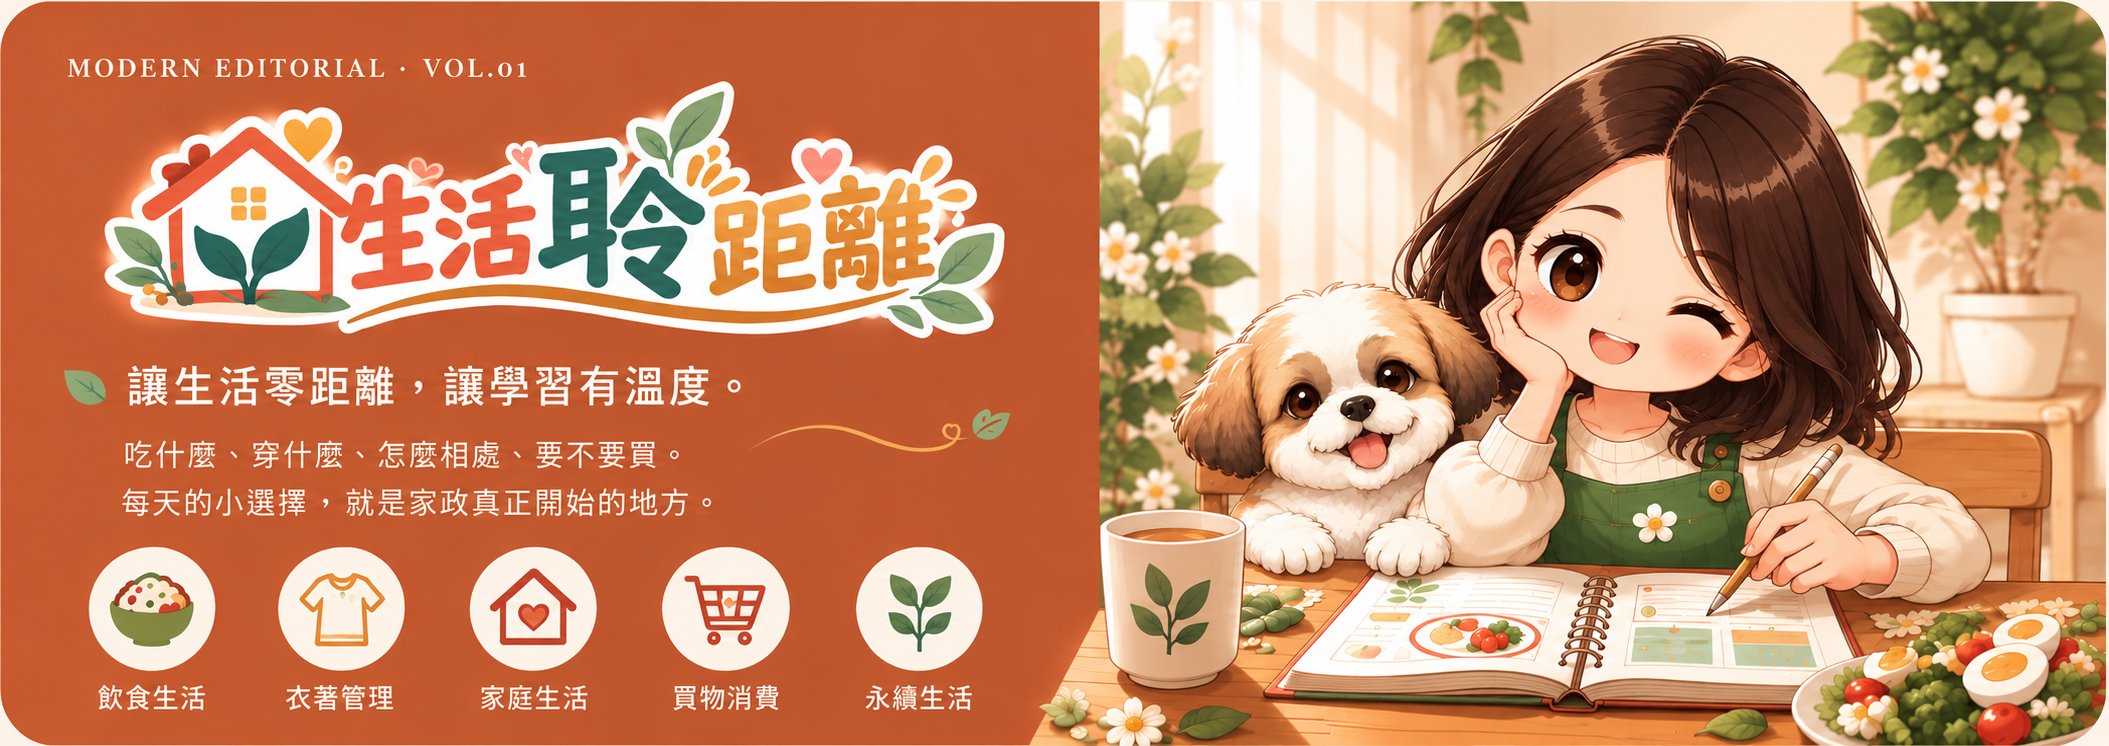
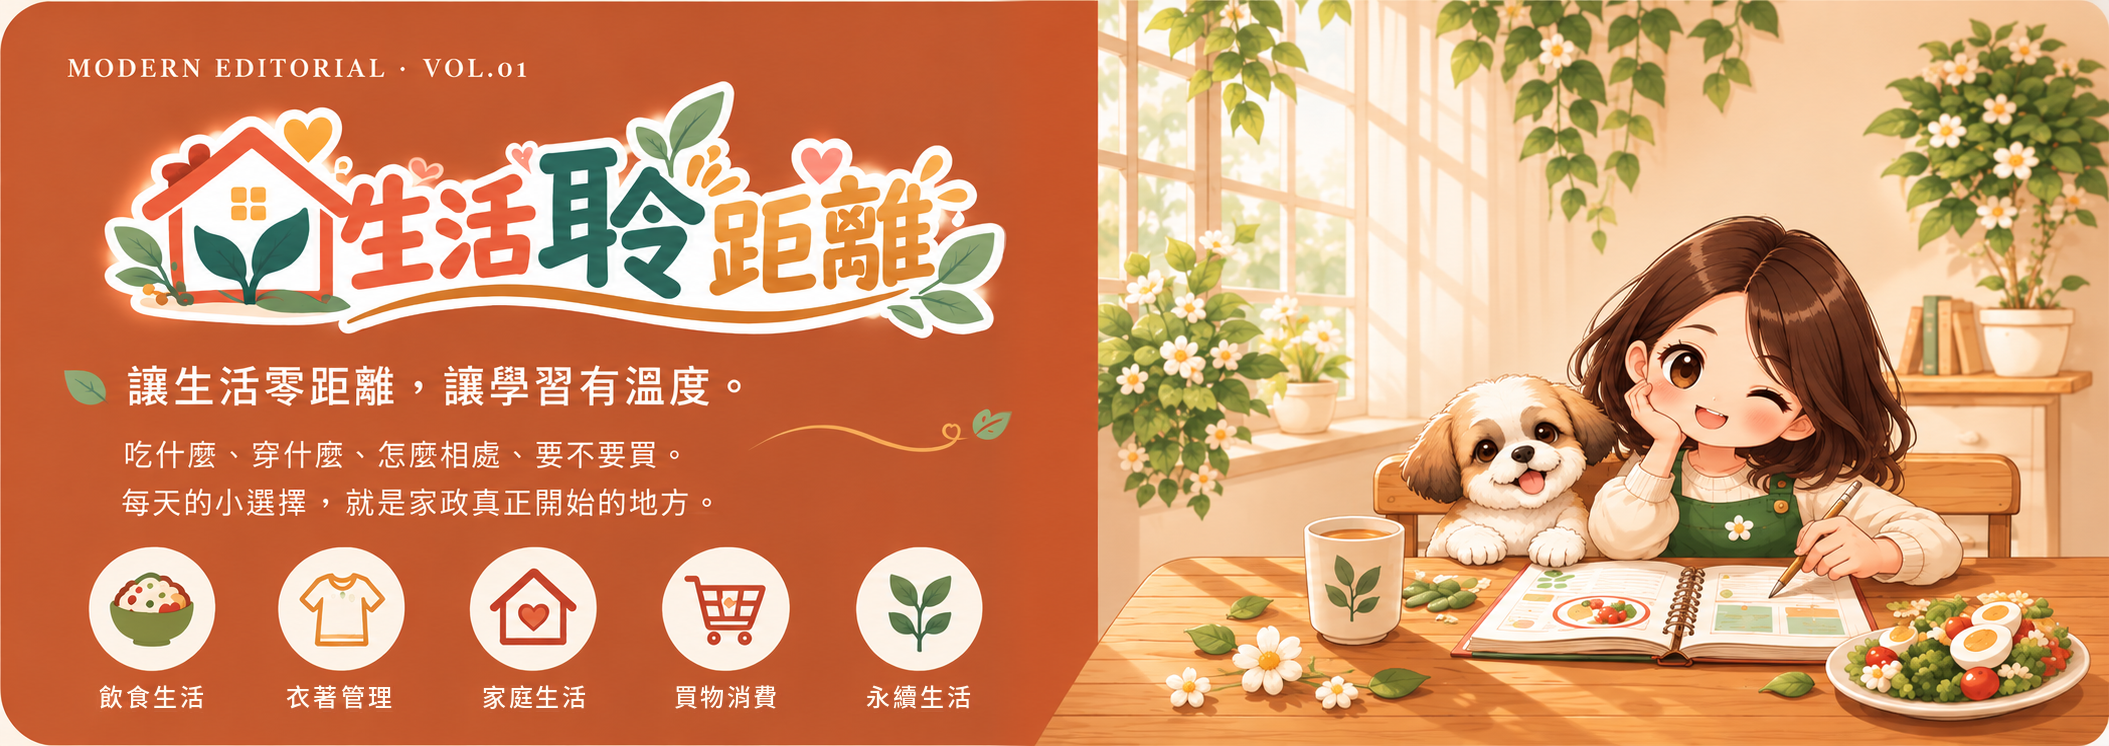
111111

diff --git a/public/index.html b/public/index.html
@@ -149,6 +149,22 @@ html{scroll-behavior:smooth}
 .hero-jump-row .hero-jump{position:static!important;white-space:nowrap}
 @media(max-width:700px){.hero-jump-row{justify-content:center}}
 </style>
+<style>
+/* 首頁字級放大：投影與手機都看得清楚 */
+.navs{font-size:14px}
+.quote b{font-size:20px}
+.quote p,.note p{font-size:15px;line-height:1.75;opacity:.8}
+.note b{font-size:15px}
+.title small{font-size:12.5px}
+.num,.en{font-size:12px}
+.card p{font-size:15px;line-height:1.75;opacity:.9}
+.go{font-size:13px;padding:8px 13px}
+.extra p{font-size:14.5px;opacity:.78}
+.buttons a{font-size:14px}
+.hero-jump{font-size:14px}
+footer{font-size:13px}
+.card{min-height:250px;padding-bottom:74px}
+</style>
 </head><body><div class="wrap">
 <nav><a aria-label="生活聆距離，回首頁" class="brand brand-logo-link" href="index.html"><img src="assets/approved-nav-logo.png" alt="生活聆距離" width="235" height="62"/></a><div class="navs"><a href="#life-features"><span>生活專題</span></a><a href="主題互動學習.dc.html"><span>直接玩</span></a><a href="教學百寶箱.dc.html"><span>教師工具</span></a></div><img class="nav-corner-mark" src="assets/approved-corner-house.png" alt="生活聆距離小屋圖示" width="52" height="52"/></nav>
 <section class="hero hero-banner"><img alt="生活聆距離：讓生活零距離，讓學習有溫度。女孩與小狗一起探索飲食、衣著、家庭、消費與永續生活。" loading="eager" src="assets/home-hero-warm.png" width="2109" height="746"/><a class="hero-cat" href="飲食與營養.dc.html" aria-label="飲食生活" style="left:3.6%"></a><a class="hero-cat" href="服裝與織品.dc.html" aria-label="衣著管理" style="left:12.6%"></a><a class="hero-cat" href="家庭與生活.dc.html" aria-label="家庭生活" style="left:21.7%"></a><a class="hero-cat" href="消費與管理.dc.html" aria-label="購物消費" style="left:30.8%"></a><a class="hero-cat" href="sdgs.html" aria-label="永續生活" style="left:39.7%"></a></section><div class="hero-jump-row"><a class="hero-jump" href="#life-features">開始探索生活 ↓</a></div>
